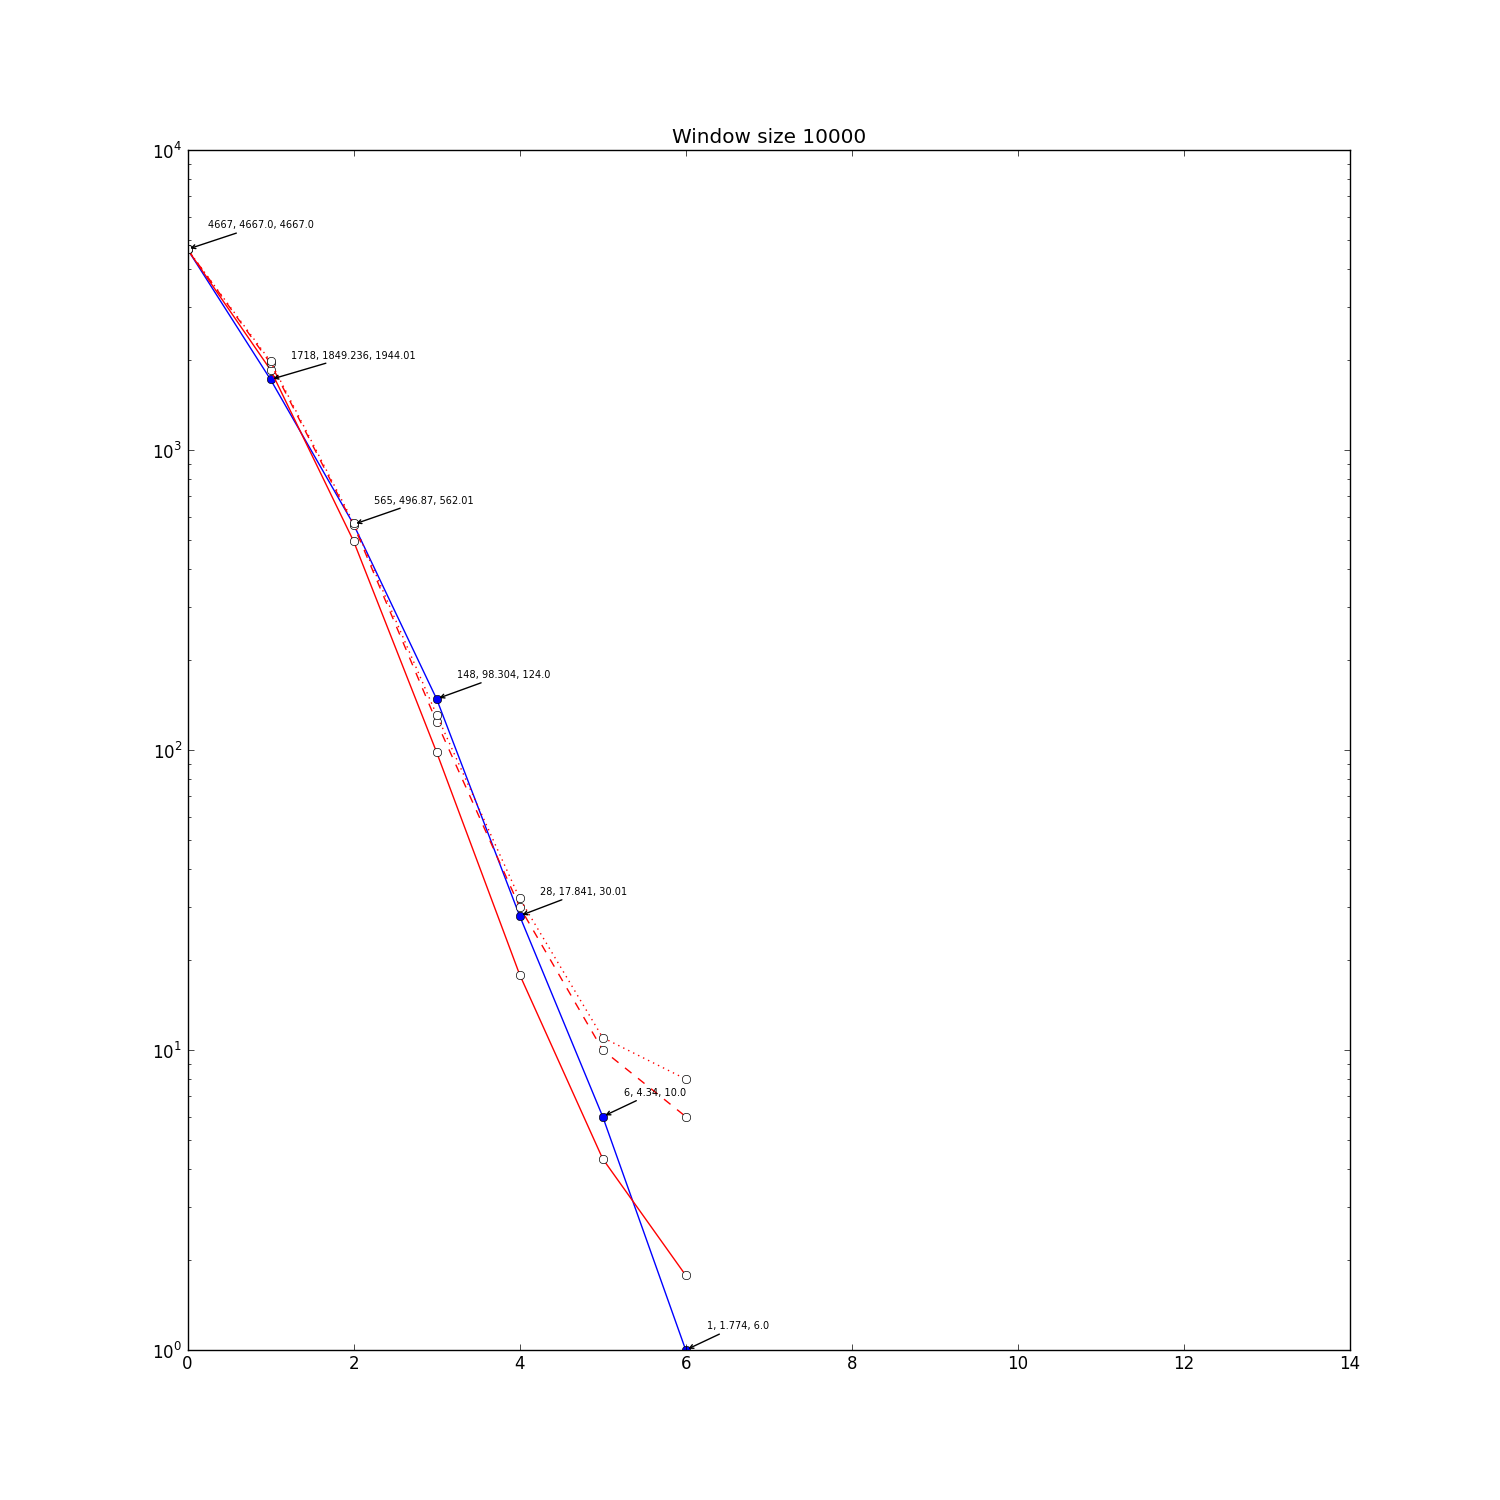
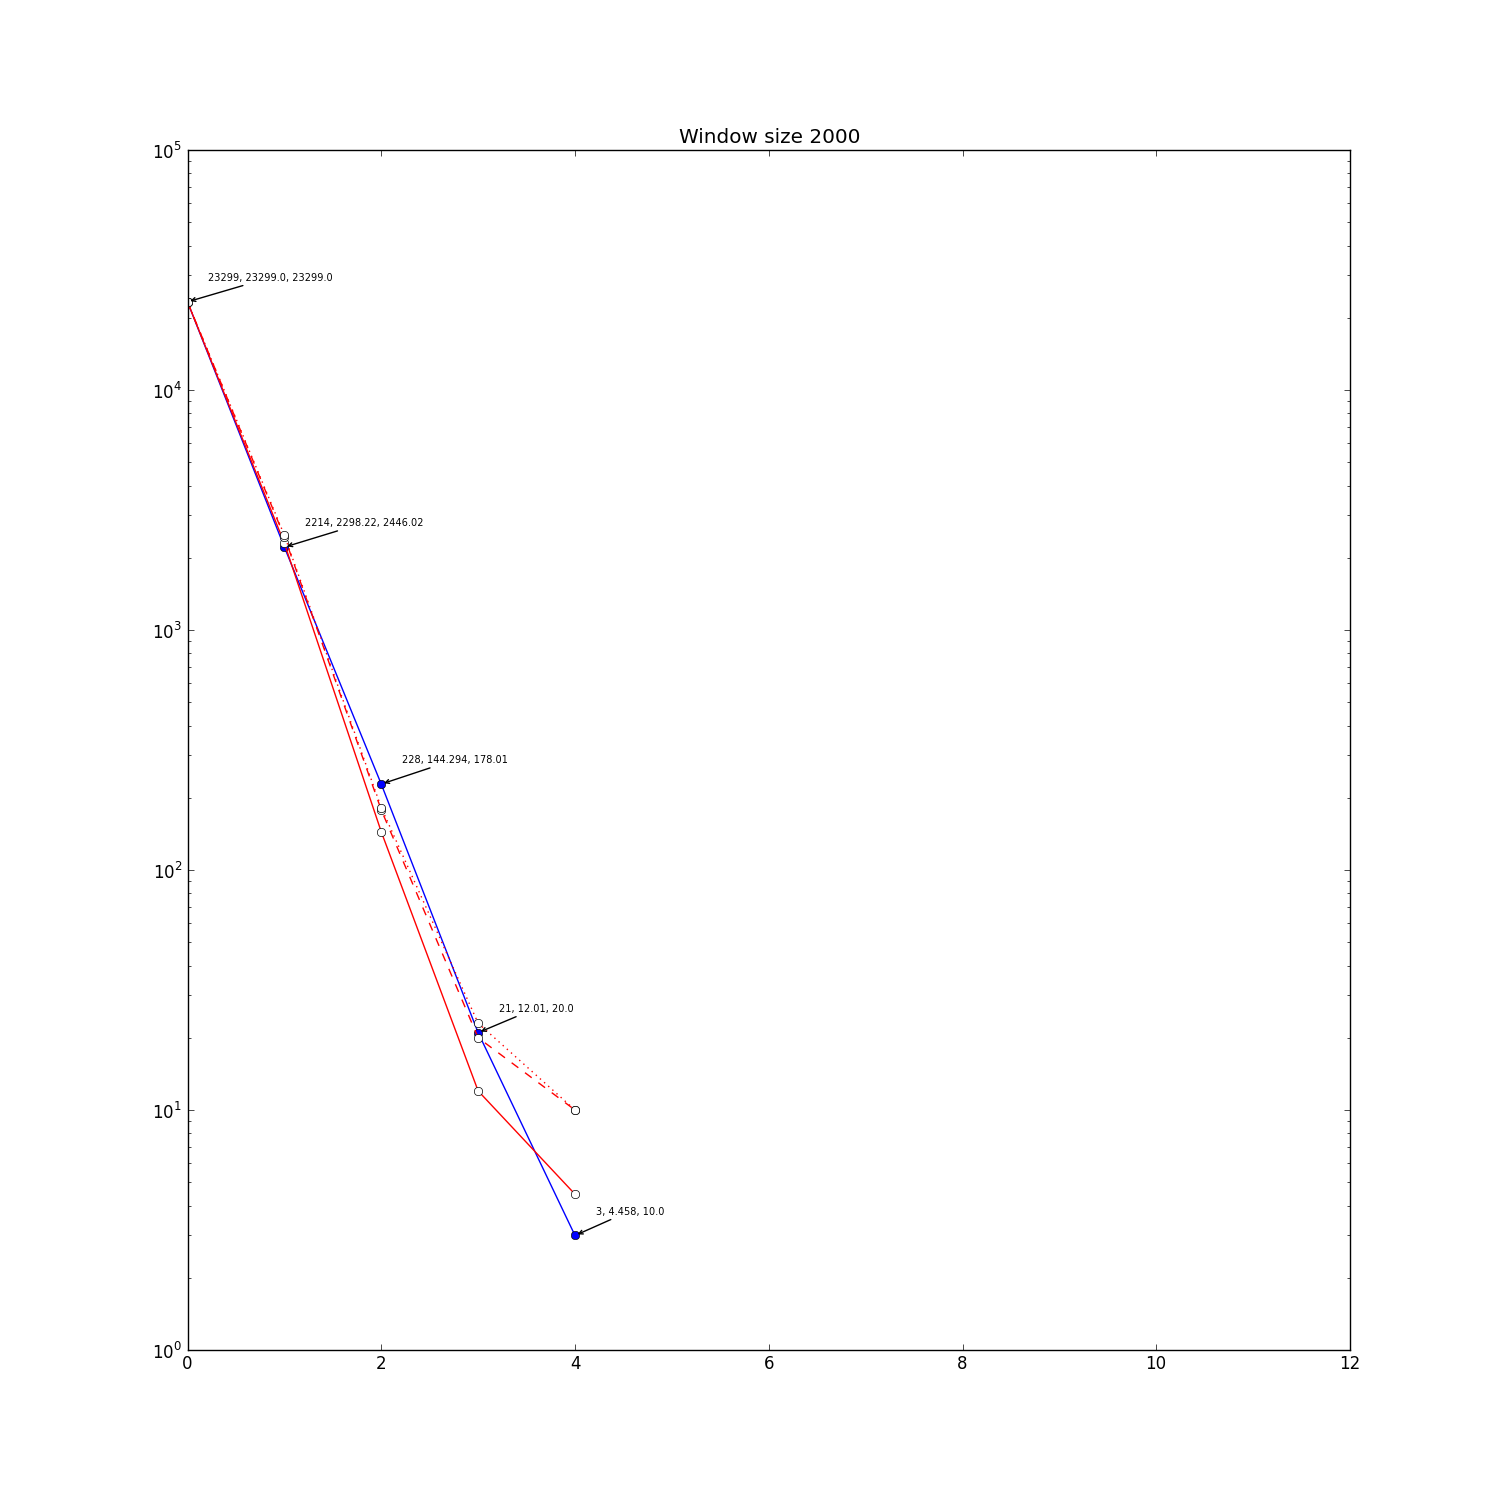
More simulations

diff --git a/Src/CrossRecombination/Calc.py b/Src/CrossRecombination/Calc.py
@@ -10,6 +10,9 @@ import matplotlib.pyplot as plt
 
 import matplotlib.pyplot as plt
 
+#SampleCount = 124
+SampleCount = 37
+
 chromosomeInfo = [
             { 'id': 'Pf3D7_01_v3', 'len': int(0.640851E6) },
             { 'id': 'Pf3D7_02_v3', 'len': int(0.947102E6) },
@@ -106,26 +109,32 @@ def SimulateEvents(snpposits):
             for i1 in range(cntt):
                 snppositsonchromo.append(int(numpy.random.rand()*chromoInfo['len']))
 
-        #print(str(len(snppositsonchromo)))
-        #print(str(snppositsonchromo))
-        #sys.exit()
-
-        #print('avcount = {0} simcount = {1}'.format(avcount,simcount))
         chromoposits = []
-        simnr=0
-        while simnr < simcount:
-            if RandomPositions:
-                randomsnpnr = int(numpy.random.rand()*len(snppositsonchromo))
-                randomposit = snppositsonchromo[randomsnpnr]
-            else:
-                randomposit = int(numpy.random.rand()*chromoInfo['len'])
-                if (randomposit>=snppositsonchromo[1]) and (randomposit<=snppositsonchromo[len(snppositsonchromo)-2]):
-                    randomposit=FindClosest(snppositsonchromo,randomposit)
+        for SampleNr in range(SampleCount):
+            simcount = numpy.random.poisson(avcount*1.0/SampleCount)
+
+            simnr=0
+            eventposits=[]
+            while simnr < simcount:
+                if RandomPositions:
+                    randomsnpnr = int(numpy.random.rand()*len(snppositsonchromo))
+                    randomposit = snppositsonchromo[randomsnpnr]
                 else:
-                    randomposit = -1
-            if randomposit >= 0:
-                chromoposits.append(randomposit)
-                simnr += 1
+                    randomposit = int(numpy.random.rand()*chromoInfo['len'])
+                    if (randomposit>=snppositsonchromo[1]) and (randomposit<=snppositsonchromo[len(snppositsonchromo)-2]):
+                        randomposit=FindClosest(snppositsonchromo,randomposit)
+                    else:
+                        randomposit = -1
+                if randomposit >= 0:
+                    isok=True
+                    for otherevent in eventposits:
+                        if abs(otherevent-randomposit)<25000:
+                            isok=False
+                    if isok:
+                        eventposits.append(randomposit)
+                        chromoposits.append(randomposit)
+                        simnr += 1
+
         chromoposits = sorted(chromoposits)
         #print(str(chromoposits))
         for posit in chromoposits:
@@ -221,7 +230,7 @@ def SimulateStats(winSize):
     snpposits = LoadSnpPositions()
     maxcount = 200
     countsList =[[] for i in range(maxcount)]
-    for simnr in range(1000):#!!! should be at least 10000
+    for simnr in range(10000):#!!! should be at least 10000
         print('Simulation {0}'.format(simnr))
         simevents = SimulateEvents(snpposits)
         #print('Simulated total events: {0}'.format(len(simevents['posits'])))
@@ -246,11 +255,11 @@ def SimulateStats(winSize):
     return rs
 
 
-winSizeList = [10000]
+winSizeList = [2000,5000,10000,20000]
 
 
 # Generate or load the simulated data
-if True:
+if False:
     simuldata={}
     for winSize in winSizeList:
         simuldata[str(winSize)] = SimulateStats(winSize)
@@ -266,7 +275,7 @@ print(str(simuldata))
 
 plotnr = 0;
 fig = plt.figure(1)
-fig.set_size_inches(15,15)
+fig.set_size_inches(15,30)
 
 
 for winSize in winSizeList:
